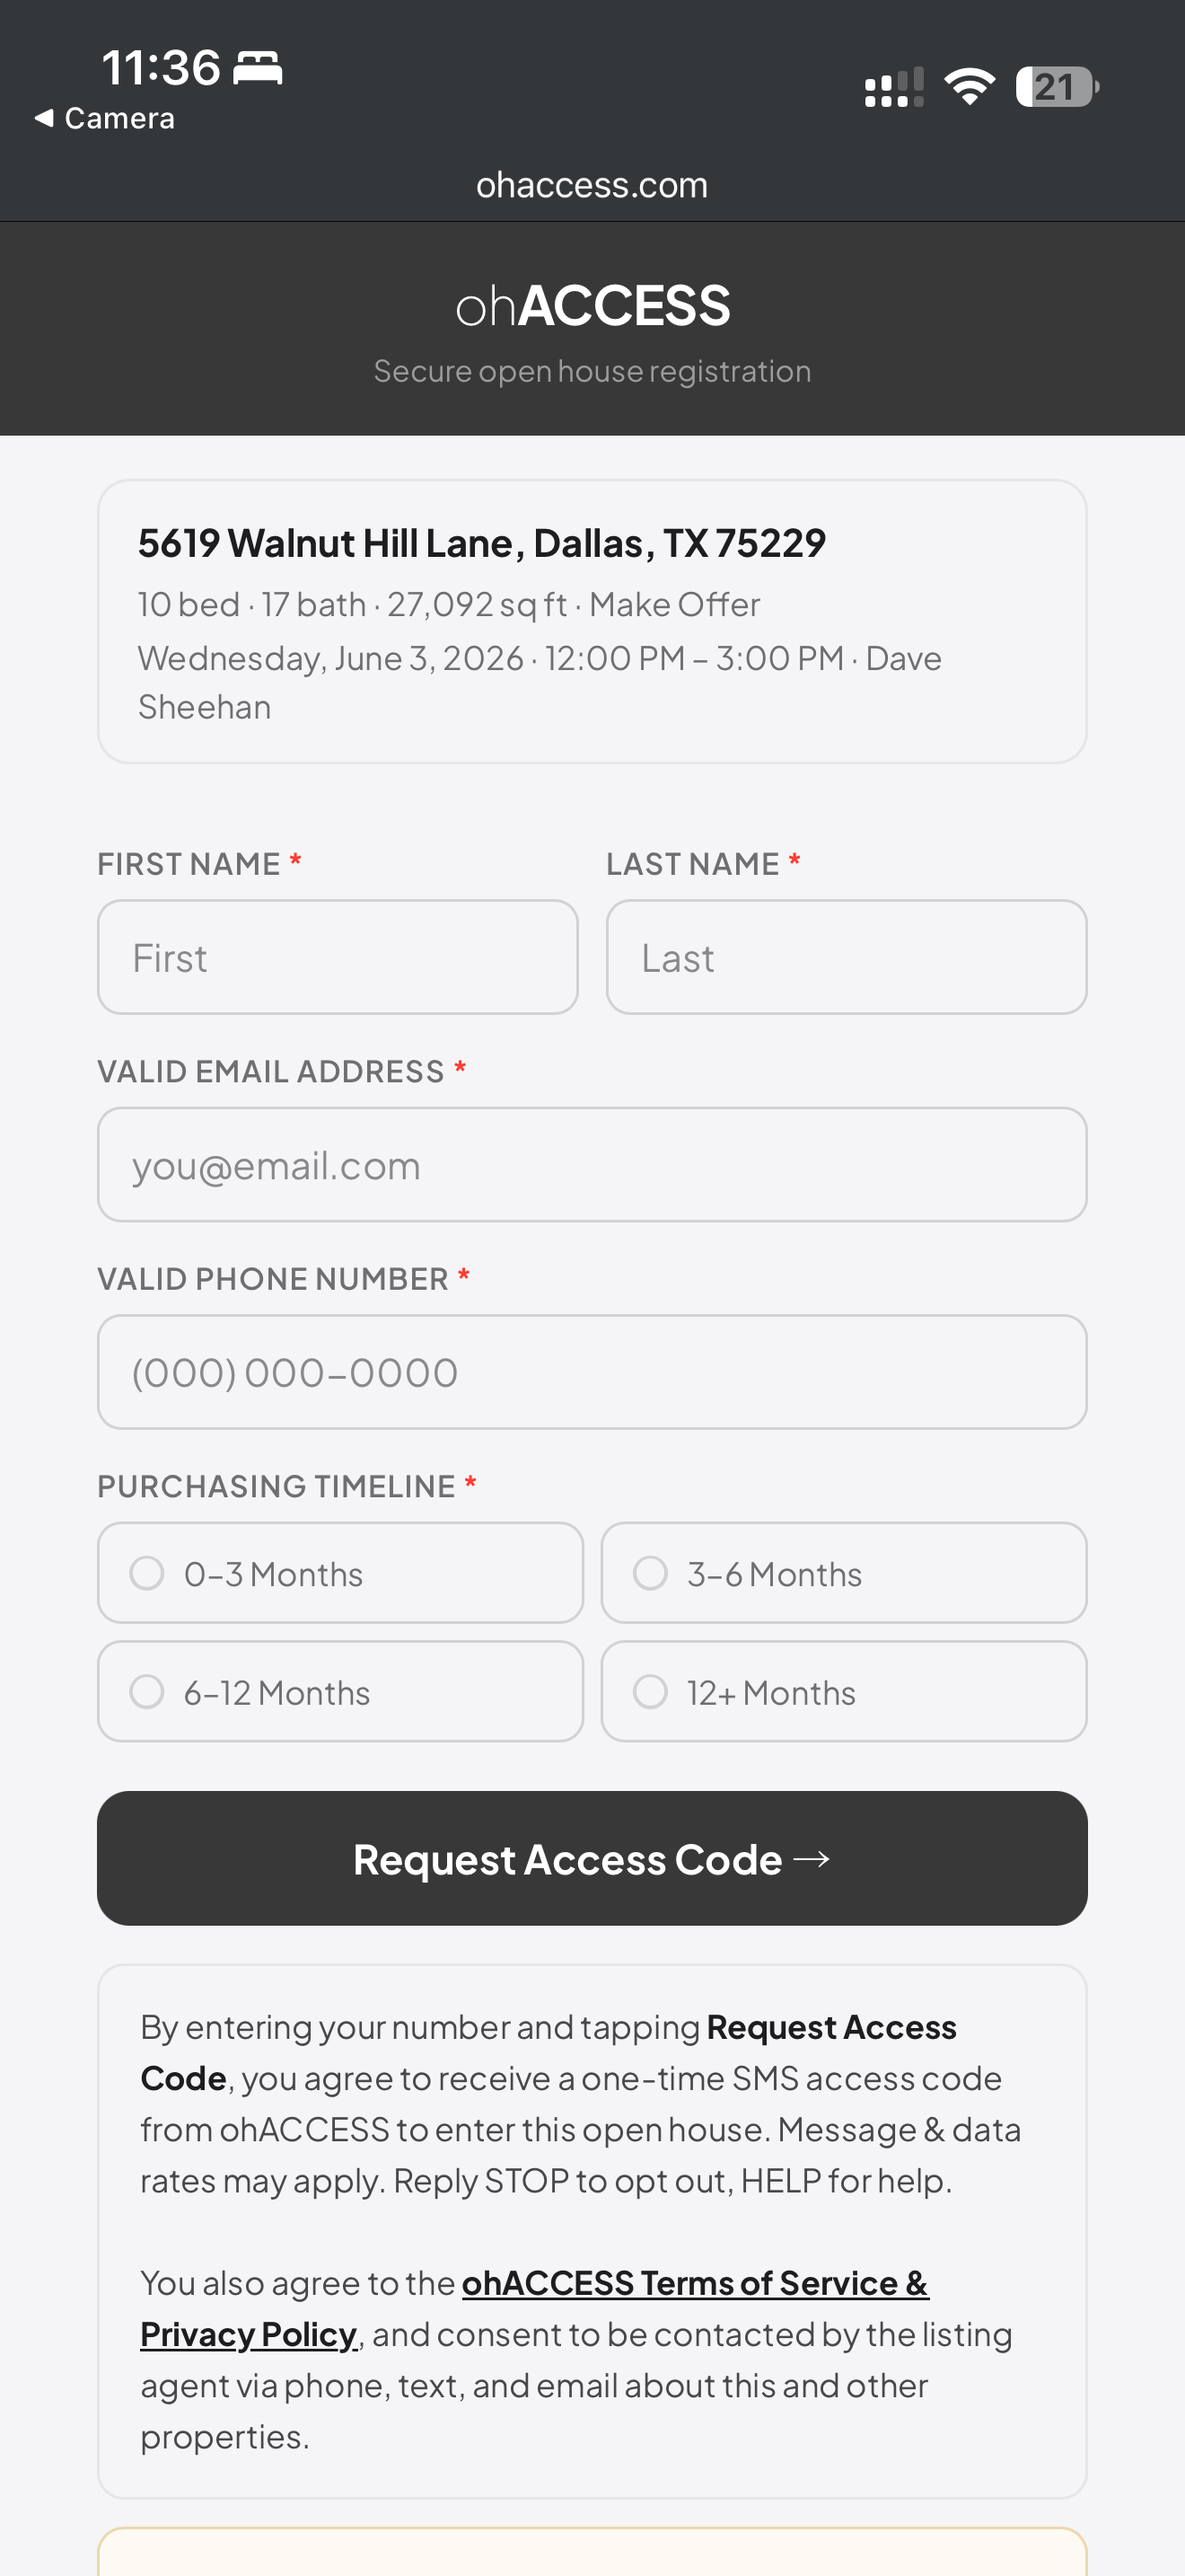
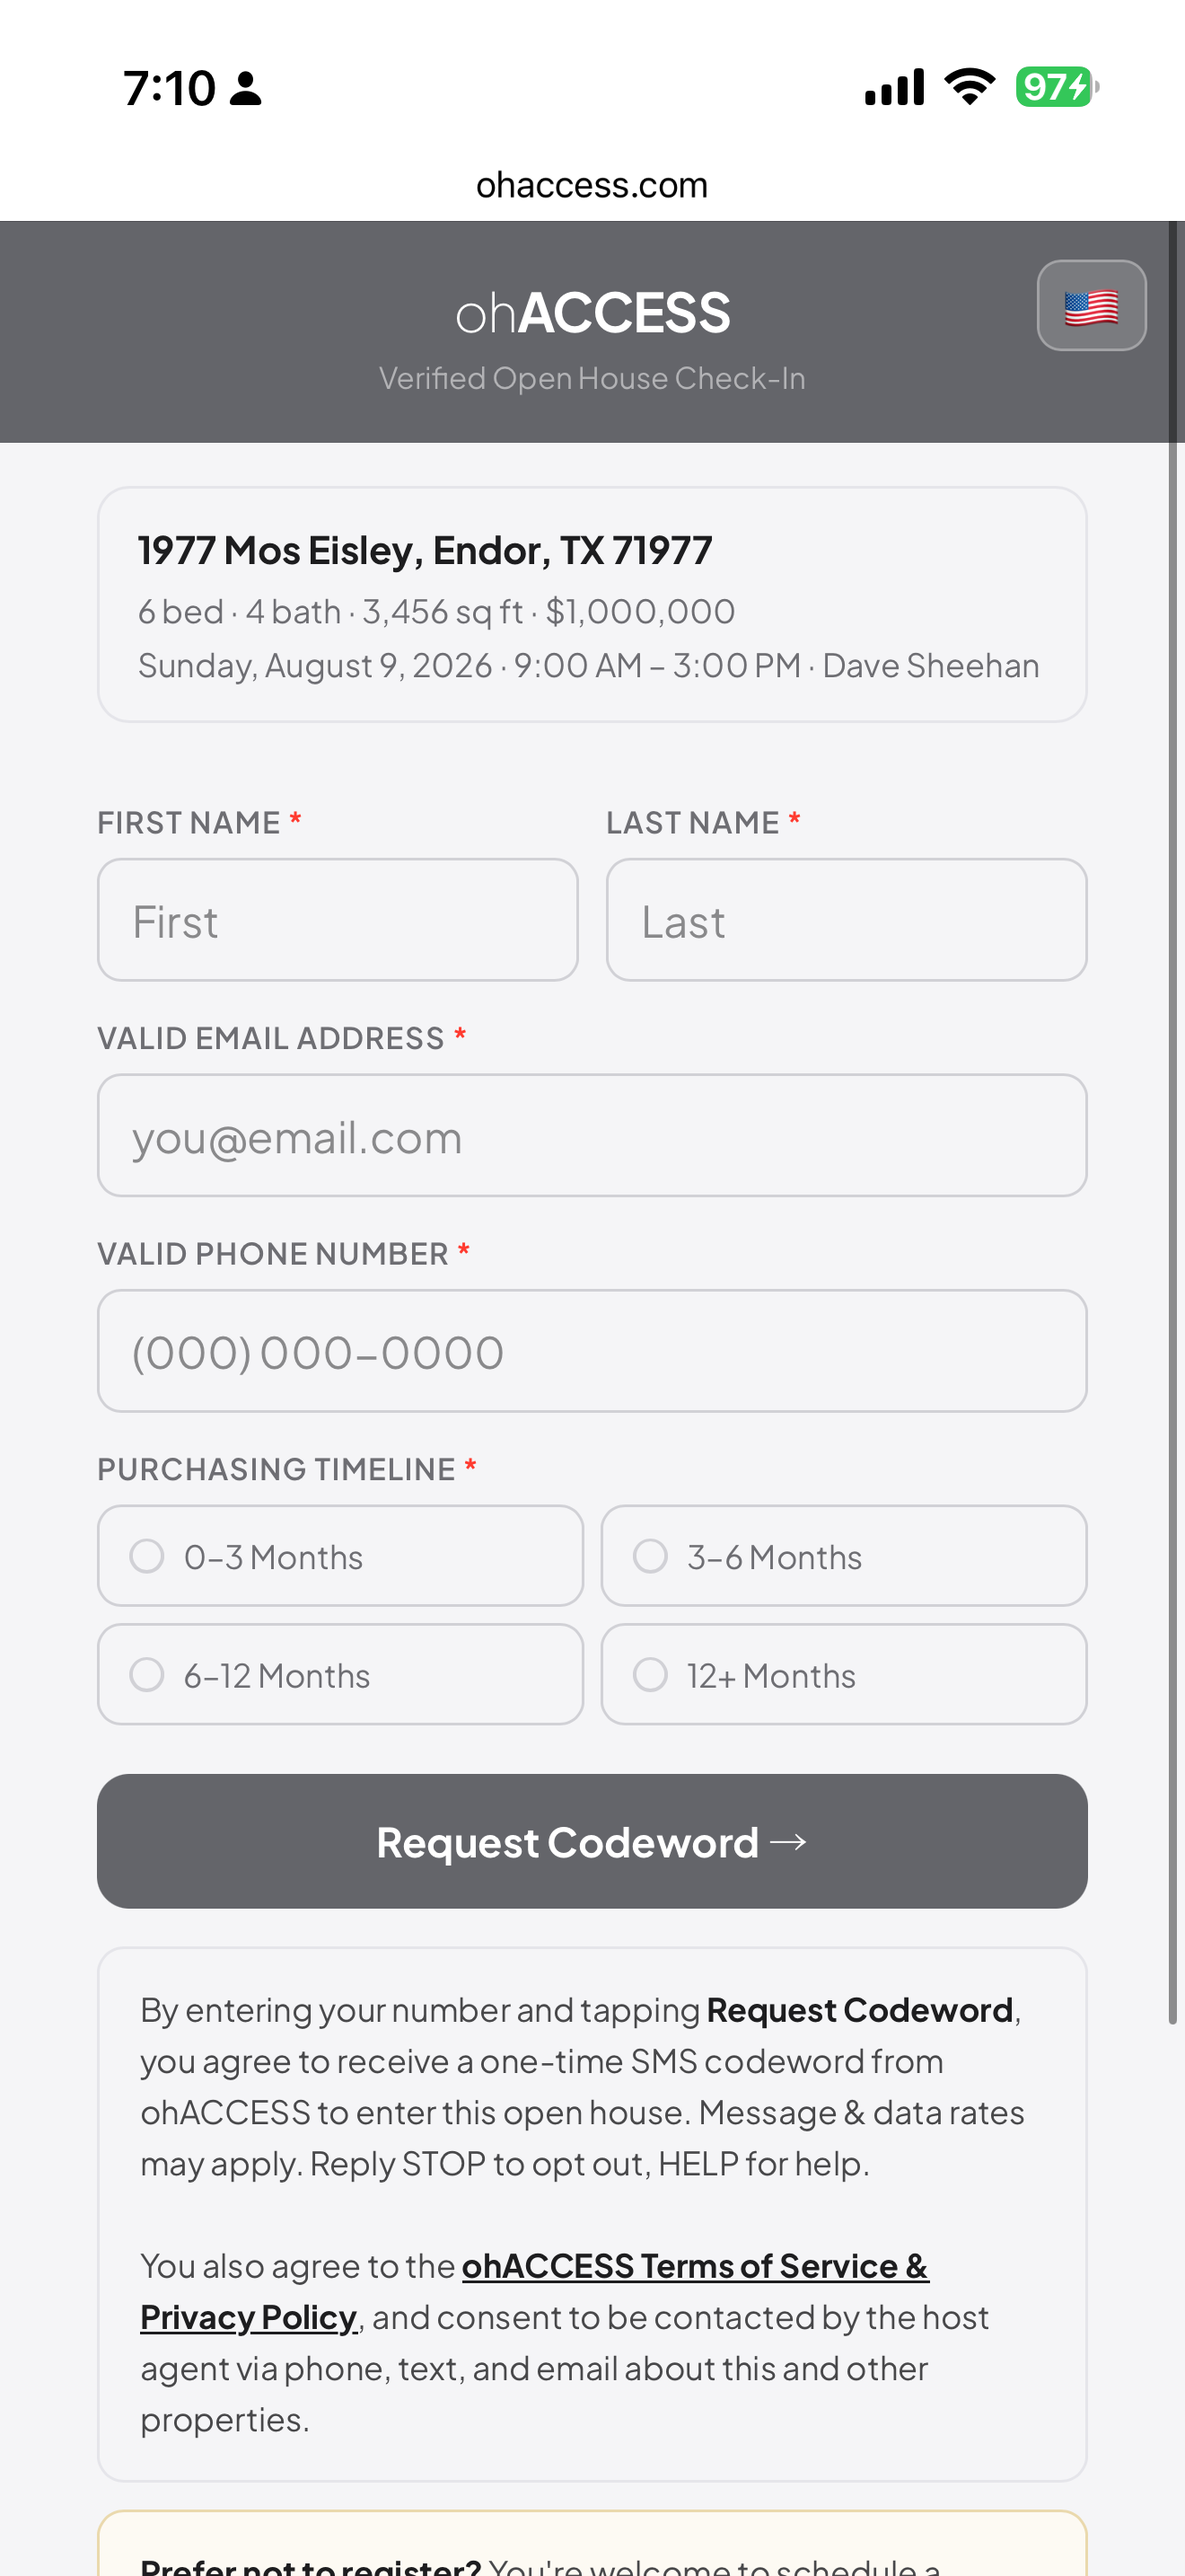
Opt-in proof: sample texts and screenshot match what we actually send
Both sample messages on the carrier proof page were stale. Message type 1
showed a numeric "one-time entry code ... is 4827"; we send a codeword, and
the address carries the zip so iPhone's Maps auto-link can resolve it.
Message type 2 described a bare "a new visitor registered" ping, but the
real alert carries the visitor's name, phone, email and timeline inline —
a difference that matters to a reviewer comparing the doc to captured
traffic.

Both now quote the live bodies verbatim, with notes covering the tracked
short link (conditional on a listing URL and the one-segment budget) and
the fact that the agent alert has no STOP footer of its own — agents opt
out at the carrier level, which Twilio honors.

Screenshot re-shot against the renamed "Request Codeword" button.

diff --git a/app/verification/opt-in-proof/page.tsx b/app/verification/opt-in-proof/page.tsx
@@ -97,10 +97,15 @@ export default function OptInProof() {
 
         {/* Sample message — message type 1 */}
         <h2 style={{ fontSize: '22px', fontWeight: '700', color: '#1d1d1f', marginBottom: '6px' }}>Message type 1 — one-time codeword (to the visitor)</h2>
-        <div style={{ fontSize: '13px', color: '#6e6e73', marginBottom: '16px' }}>The verification/2FA code a visitor receives after opting in above.</div>
-        <div style={{ background: '#f5f5f7', border: '1px solid #e5e5ea', borderRadius: '12px', padding: '20px 24px', marginBottom: '40px', fontSize: '14px', lineHeight: '1.75', color: '#1d1d1f', fontFamily: 'monospace' }}>
-          ohACCESS: Your one-time entry code for 123 Main St is 4827. Show this text at the door to gain access. Msg &amp; data
-          rates may apply. Reply STOP to opt out, HELP for help.
+        <div style={{ fontSize: '13px', color: '#6e6e73', marginBottom: '16px' }}>The one-time verification codeword a visitor receives after opting in above.</div>
+        <div style={{ background: '#f5f5f7', border: '1px solid #e5e5ea', borderRadius: '12px', padding: '20px 24px', marginBottom: '10px', fontSize: '14px', lineHeight: '1.75', color: '#1d1d1f', fontFamily: 'monospace' }}>
+          Codeword at 123 Main St, 75229 is &ldquo;LUXE&rdquo;. Share with host for access. Reply STOP to opt out.
+          https://ohaccess.com/r/aB3xK9
+        </div>
+        <div style={{ fontSize: '13px', color: '#6e6e73', marginBottom: '40px', lineHeight: '1.7' }}>
+          The address and codeword vary per open house. The trailing link is a tracked ohACCESS short link to the property
+          listing; it is appended only when the hosting agent has supplied a listing URL and the message still fits one
+          segment, and is otherwise omitted.
         </div>
 
         {/* Sample message — message type 2 */}
@@ -110,9 +115,15 @@ export default function OptInProof() {
           provide their own mobile number and agree to receive operational SMS alerts about their open houses. They receive a
           transactional notification each time a new visitor registers. Agents can stop these any time by replying STOP.
         </div>
-        <div style={{ background: '#f5f5f7', border: '1px solid #e5e5ea', borderRadius: '12px', padding: '20px 24px', marginBottom: '40px', fontSize: '14px', lineHeight: '1.75', color: '#1d1d1f', fontFamily: 'monospace' }}>
-          ohACCESS Alert: A new visitor just registered at your 123 Main St open house. Open your ohACCESS dashboard to view
-          their details. Reply STOP to opt out, HELP for help.
+        <div style={{ background: '#f5f5f7', border: '1px solid #e5e5ea', borderRadius: '12px', padding: '20px 24px', marginBottom: '10px', fontSize: '14px', lineHeight: '1.75', color: '#1d1d1f', fontFamily: 'monospace' }}>
+          ohACCESS: New visitor at 123 Main St. Jane Smith, (214) 555-0142, jane@email.com, Timeline: 0&ndash;3 Months, Time:
+          6/3/26, 12:47 PM https://ohaccess.com/r/aB3xK9
+        </div>
+        <div style={{ fontSize: '13px', color: '#6e6e73', marginBottom: '40px', lineHeight: '1.7' }}>
+          The trailing link is a tracked ohACCESS short link to that visitor&rsquo;s record, where the agent verifies them and
+          adds notes. A number identified as VoIP/internet is flagged inline for the agent. This alert carries no STOP
+          footer of its own; agents opt out at the carrier level by replying STOP to the number, which Twilio honors for all
+          subsequent messages.
         </div>
 
         {/* Policy links */}
